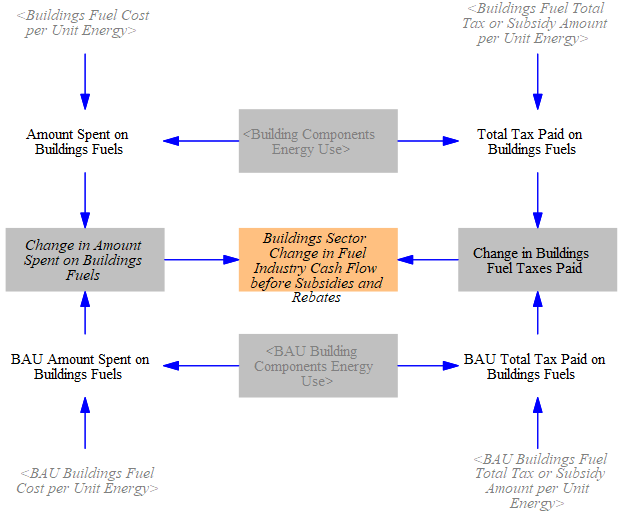
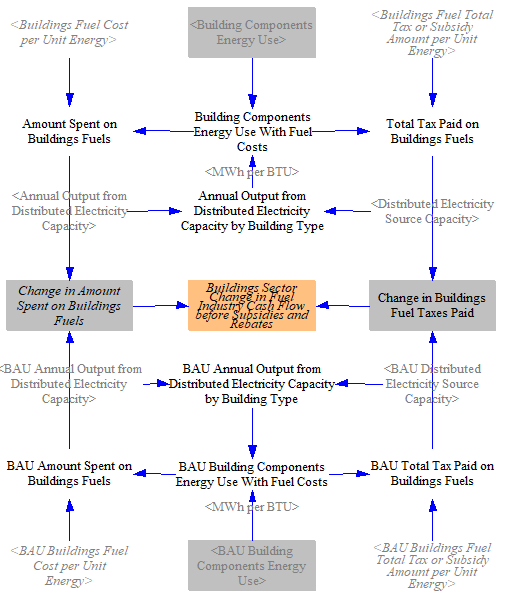
Buildings sector cash flow 4.0.5 update

diff --git a/docs/buildings-sector-cash.md b/docs/buildings-sector-cash.md
@@ -7,7 +7,7 @@ The following structure is used to calculate the change in amount spent on fuels
 
 ![buildings sector fuel-related cash flow changes](/img/buildings-sector-cash-Fuels.png)
 
-The total amount spent on fuels is calculated by multiplying the total energy use by building components (which is disaggregated by fuel) by the fuel cost per unit energy (for each fuel).  A similar calculation is performed to find the BAU equivalent.  The amount of this total that consists of taxes is determined by multiplying the quantity of energy used by the amount of fuel tax per unit energy.  Taking the difference between the policy and BAU values for taxes paid gives the change in fuel taxes paid in the buildings sector.  Taking the difference between the total amount spent on fuels in the BAU and policy cases gives the change in total amount spent on fuels.  We subtract out the difference in taxes to obtain the change in payments to the fuel industry (this is disaggregated by fuel, so the "fuel industry" impacts can be recategorized into more meaningful industry categories on the [Cross-Sector Totals](cross-sector-totals) page).
+The total amount spent on fuels is calculated by multiplying the energy use by building components (summed across components and disaggregated by fuel) by the fuel cost per unit energy (for each fuel). For electricity specifically, we first net out the annual output from on-site distributed electricity sources (rooftop solar PV, on-site wind) by building type, since households and businesses do not pay the utility for power they generate themselves. The result is the "Building Components Energy Use With Fuel Costs," which represents the energy whose fuel cost actually flows to fuel suppliers.  A similar calculation is performed to find the BAU equivalent.  The amount of this total that consists of taxes is determined by multiplying the quantity of energy used by the amount of fuel tax per unit energy.  Taking the difference between the policy and BAU values for taxes paid gives the change in fuel taxes paid in the buildings sector.  Taking the difference between the total amount spent on fuels in the BAU and policy cases gives the change in total amount spent on fuels.  We subtract out the difference in taxes to obtain the change in payments to the fuel industry (this is disaggregated by fuel, so the "fuel industry" impacts can be recategorized into more meaningful industry categories on the [Cross-Sector Totals](cross-sector-totals) page).
 
 ## Change in Building Component Costs and Taxes
 
@@ -51,7 +51,7 @@ To calculate the total amount spent on building component rebates, we first find
 
 ## Allocating Changes in Expenditures
 
-Finally, we have to determine which of the model's cash-flow entities (government, industry, and consumers) pay the change in cash flow from fuels and components in the buildings sector.  We begin by summing up the change in the amount spent on nonenergy expenses -- such as the building components themselves and various subsidies -- and the change in the amount spent on fuels used in buildings.  We divide up these expenditures among cash flow actors by the fraction of buildings owned by each actor.  The share of expenses attributed to nonenergy industries is then broken down further into shares paid for by respective ISIC codes (subindustries).
+Finally, we have to determine which of the model's cash-flow entities (government, industry, and consumers) pay the change in cash flow from fuels and components in the buildings sector.  We begin by summing up the change in the amount spent on nonenergy expenses -- such as the building components themselves and various subsidies -- and the change in the amount spent on fuels used in buildings.  We divide up these expenditures among cash flow actors by the fraction of buildings owned by each actor.  The model also tracks the change in energy expenditures broken out simultaneously by entity and by fuel type, so downstream calculations can attribute (for example) gas-related cash flow effects to consumers separately from electricity-related effects to the same entity.  The share of expenses attributed to nonenergy industries is then broken down further into shares paid for by respective ISIC codes (subindustries).
 
 The following screenshot shows the relevant structure:
 
@@ -64,4 +64,4 @@ We also need to determine which of the model's cash-flow entities receive the ch
 ![assigning cash flows by actor](/img/buildings-sector-cash-AllocatingRevenue.png)
 
 ---
-*This page was last updated in version 4.0.4.*
+*This page was last updated in version 4.0.5.*
